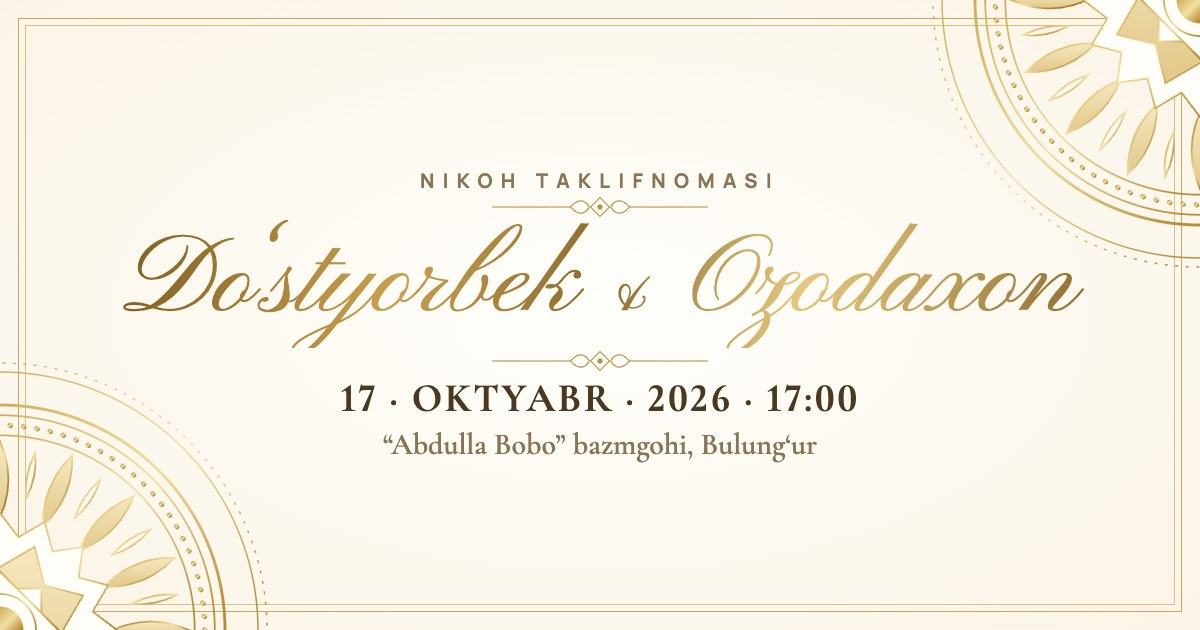
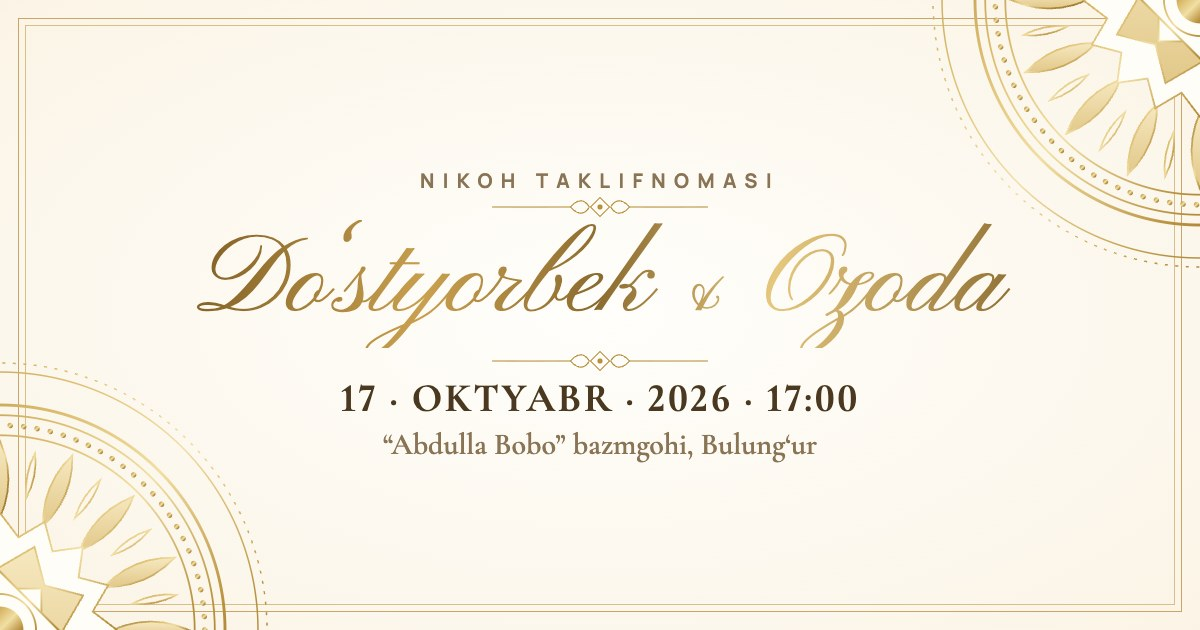
Kelin ismi: Ozoda (Ozodaxon emas)

Changed region(s): [[0.0925, 0.3619, 0.8942, 0.5429]]

diff --git a/index.html b/index.html
@@ -5,12 +5,12 @@
 <meta name="viewport" content="width=device-width, initial-scale=1, viewport-fit=cover">
 <meta name="color-scheme" content="light only">
 <meta name="theme-color" content="#FFFDF8">
-<title>Do‘styorbek & Ozodaxon — Nikoh taklifnomasi</title>
-<meta name="description" content="Yo‘ldosh Karimov xonadoni sizni Do‘styorbek va Ozodaxonning nikoh to‘yiga taklif etadi — 17-oktyabr 2026, soat 17:00, “Abdulla Bobo” bazmgohi.">
+<title>Do‘styorbek & Ozoda — Nikoh taklifnomasi</title>
+<meta name="description" content="Yo‘ldosh Karimov xonadoni sizni Do‘styorbek va Ozodaning nikoh to‘yiga taklif etadi — 17-oktyabr 2026, soat 17:00, “Abdulla Bobo” bazmgohi.">
 <meta property="og:type" content="website">
 <meta property="og:locale" content="uz_UZ">
 <meta property="og:site_name" content="Nikoh taklifnomasi">
-<meta property="og:title" content="Do‘styorbek & Ozodaxon — Nikoh taklifnomasi">
+<meta property="og:title" content="Do‘styorbek & Ozoda — Nikoh taklifnomasi">
 <meta property="og:description" content="17-oktyabr 2026, soat 17:00 · “Abdulla Bobo” bazmgohi. Taklifnomani ochish uchun bosing.">
 <meta property="og:url" content="https://dostyorbekabdurashidov.github.io/dostyorbek-ozodaxon/">
 <meta property="og:image" content="https://dostyorbekabdurashidov.github.io/dostyorbek-ozodaxon/og.jpg">
@@ -302,7 +302,7 @@ body.opened .dots{ opacity:1; }
     <div class="inner">
       <p class="kicker">NIKOH TAKLIFNOMASI</p>
       <svg class="divider" viewBox="0 0 190 22" aria-hidden="true"><g fill="none" stroke="#B8913F" stroke-width="1" stroke-linecap="round"><line x1="4" y1="11" x2="70" y2="11"/><line x1="120" y1="11" x2="186" y2="11"/><path d="M70 11c6-7 12-7 16 0-4 7-10 7-16 0z"/><path d="M120 11c-6-7-12-7-16 0 4 7 10 7 16 0z"/><path d="M95 3l8 8-8 8-8-8z"/></g><circle cx="95" cy="11" r="2.2" fill="#B8913F"/></svg>
-      <h1 class="names" aria-label="Do‘styorbek va Ozodaxon"><span class="w" data-split>Do‘styorbek</span><span class="amp" data-split>&amp;</span><span class="w" data-split>Ozodaxon</span></h1>
+      <h1 class="names" aria-label="Do‘styorbek va Ozoda"><span class="w" data-split>Do‘styorbek</span><span class="amp" data-split>&amp;</span><span class="w" data-split>Ozoda</span></h1>
       <svg class="divider" viewBox="0 0 190 22" aria-hidden="true"><g fill="none" stroke="#B8913F" stroke-width="1" stroke-linecap="round"><line x1="4" y1="11" x2="70" y2="11"/><line x1="120" y1="11" x2="186" y2="11"/><path d="M70 11c6-7 12-7 16 0-4 7-10 7-16 0z"/><path d="M120 11c-6-7-12-7-16 0 4 7 10 7 16 0z"/><path d="M95 3l8 8-8 8-8-8z"/></g><circle cx="95" cy="11" r="2.2" fill="#B8913F"/></svg>
       <div class="dateblock" aria-label="17-oktyabr 2026, shanba, soat 17:00">
         <span class="top">OKTYABR</span>
@@ -317,7 +317,7 @@ body.opened .dots{ opacity:1; }
     <div class="inner">
       <h2 class="title gold-text" id="greet">Hurmatli aziz mehmonimiz!</h2>
       <svg class="divider" viewBox="0 0 190 22" aria-hidden="true"><g fill="none" stroke="#B8913F" stroke-width="1" stroke-linecap="round"><line x1="4" y1="11" x2="70" y2="11"/><line x1="120" y1="11" x2="186" y2="11"/><path d="M70 11c6-7 12-7 16 0-4 7-10 7-16 0z"/><path d="M120 11c-6-7-12-7-16 0 4 7 10 7 16 0z"/><path d="M95 3l8 8-8 8-8-8z"/></g><circle cx="95" cy="11" r="2.2" fill="#B8913F"/></svg>
-      <p class="text">Sizni <b>Do‘styorbek</b> va <b>Ozodaxonning</b> nikoh to‘yi munosabati bilan o‘tkaziladigan quvonchli tantanamizga lutfan taklif etamiz.</p>
+      <p class="text">Sizni <b>Do‘styorbek</b> va <b>Ozodaning</b> nikoh to‘yi munosabati bilan o‘tkaziladigan quvonchli tantanamizga lutfan taklif etamiz.</p>
       <p class="text" style="margin-top:.8rem">Aziz mehmonimiz bo‘lib, quvonchimizga sherik bo‘ling!</p>
       <p class="family"><small>Hurmat ila,</small><strong class="gold-text">Yo‘ldosh Karimov xonadoni</strong></p>
     </div>
@@ -402,7 +402,7 @@ body.opened .dots{ opacity:1; }
 <circle cx="60" cy="60" r="35" fill="none" stroke="#8E6A2C" stroke-width="1" stroke-dasharray="1.5 3.5" opacity=".7"/>
 <text x="60" y="71" text-anchor="middle" font-family="Pinyon Script, cursive" font-size="30" fill="#7A5820" opacity=".85">D&amp;O</text>
 <text x="59" y="70" text-anchor="middle" font-family="Pinyon Script, cursive" font-size="30" fill="#F8E7B4" opacity=".55">D&amp;O</text></svg></button>
-  <div class="plaque"><small id="gate-kicker">NIKOH TAKLIFNOMASI</small><strong class="gold-text" id="gate-name">Do‘styorbek &amp; Ozodaxon</strong><em>Ochish uchun muhrni bosing</em></div>
+  <div class="plaque"><small id="gate-kicker">NIKOH TAKLIFNOMASI</small><strong class="gold-text" id="gate-name">Do‘styorbek &amp; Ozoda</strong><em>Ochish uchun muhrni bosing</em></div>
 </div>
 
 <canvas id="fx" aria-hidden="true"></canvas>
@@ -543,7 +543,7 @@ const tm = setInterval(tick,1000); tick();
 
 /* ---- Taqvimga qo'shish ---- */
 $('addcal').addEventListener('click', () => {
-  const title = 'Do‘styorbek va Ozodaxonning nikoh to‘yi';
+  const title = 'Do‘styorbek va Ozodaning nikoh to‘yi';
   const loc = '“Abdulla Bobo” bazmgohi, Kildon MFY, Bulung‘ur tumani, Samarqand viloyati';
   const isApple = /iPhone|iPad|iPod|Macintosh/.test(navigator.userAgent) && 'ontouchend' in document;
   if (isApple){
@@ -584,7 +584,7 @@ form.addEventListener('submit', async e => {
   const ctl = new AbortController(); const to = setTimeout(() => ctl.abort(), 75000);
   try {
     const r = await fetch(API, { method:'POST', mode:'cors', headers:{ 'Content-Type':'application/json' }, signal:ctl.signal,
-      body: JSON.stringify({ name, coming: answer === 'yes', count, wish: $('r-wish').value.trim(), invite: 'Do‘styorbek & Ozodaxon' }) });
+      body: JSON.stringify({ name, coming: answer === 'yes', count, wish: $('r-wish').value.trim(), invite: 'Do‘styorbek & Ozoda' }) });
     if (!r.ok) throw new Error(r.status);
     try { localStorage.setItem('rsvp-do', JSON.stringify({ a: answer })); } catch(e){}
     showDone(answer); if (answer === 'yes') burst();

diff --git a/yarat.html b/yarat.html
@@ -51,7 +51,7 @@ textarea:focus{ box-shadow:0 0 0 3px rgba(201,165,104,.25); }
 </div>
 <script>
 const BASE = new URL('./', location.href).href;
-const TEXT = 'Assalomu alaykum! Sizni Do‘styorbek va Ozodaxonning nikoh to‘yiga taklif etamiz. 17-oktyabr 2026, soat 17:00, “Abdulla Bobo” bazmgohi.';
+const TEXT = 'Assalomu alaykum! Sizni Do‘styorbek va Ozodaning nikoh to‘yiga taklif etamiz. 17-oktyabr 2026, soat 17:00, “Abdulla Bobo” bazmgohi.';
 const link = n => n ? BASE + '?m=' + encodeURIComponent(n) : BASE;
 const tg = u => 'https://t.me/share/url?url=' + encodeURIComponent(u) + '&text=' + encodeURIComponent(TEXT);
 function wire(root){
